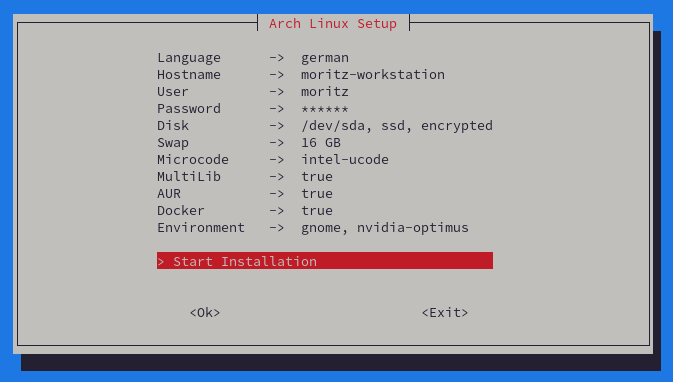
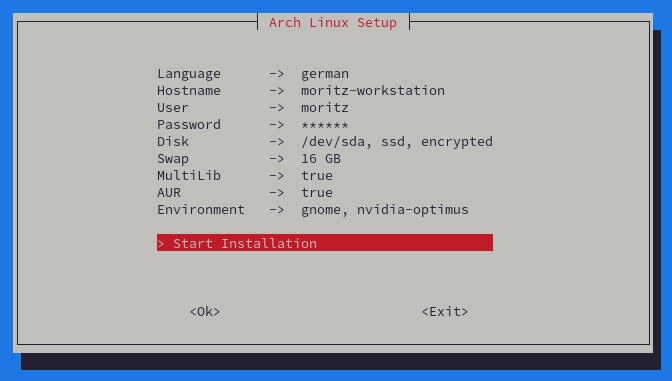
plymouth, hibernation, refactoring

diff --git a/docs/README.md b/docs/README.md
@@ -109,7 +109,6 @@ ARCH_ROOT_PARTITION="/dev/vda2" # Root partition
 ARCH_FSTRIM_ENABLED="false" # SSD support
 ARCH_ENCRYPTION_ENABLED="true" # Encrypt
 ARCH_SWAP_SIZE="8" # Swap (0 = disabled)
-ARCH_MICROCODE="none" # intel-ucode | amd-ucode
 ARCH_MULTILIB_ENABLED="true" # 32 Bit support
 ARCH_AUR_ENABLED="true" # Install paru
 ARCH_TIMEZONE="Europe/Berlin" # Timezone
@@ -117,9 +116,7 @@ ARCH_LOCALE_LANG="de_DE.UTF-8" # Language
 ARCH_LOCALE_GEN_LIST=("de_DE.UTF-8 UTF-8" "de_DE ISO-8859-1" "de_DE@euro ISO-8859-15" "en_US.UTF-8 UTF-8") # Language
 ARCH_VCONSOLE_KEYMAP="de-latin1-nodeadkeys" # Console keymap
 ARCH_VCONSOLE_FONT="eurlatgr" # Console font
-ARCH_DOCKER_ENABLED="true" # Enable docker
 ARCH_PKGFILE_ENABLED="true" # Enable package suggestion
-ARCH_WATCHDOG_ENABLED="false" # Disable watchdog
 ARCH_SHUTDOWN_TIMEOUT_SEC="5s" # Shutdown timeout
 ```
 
